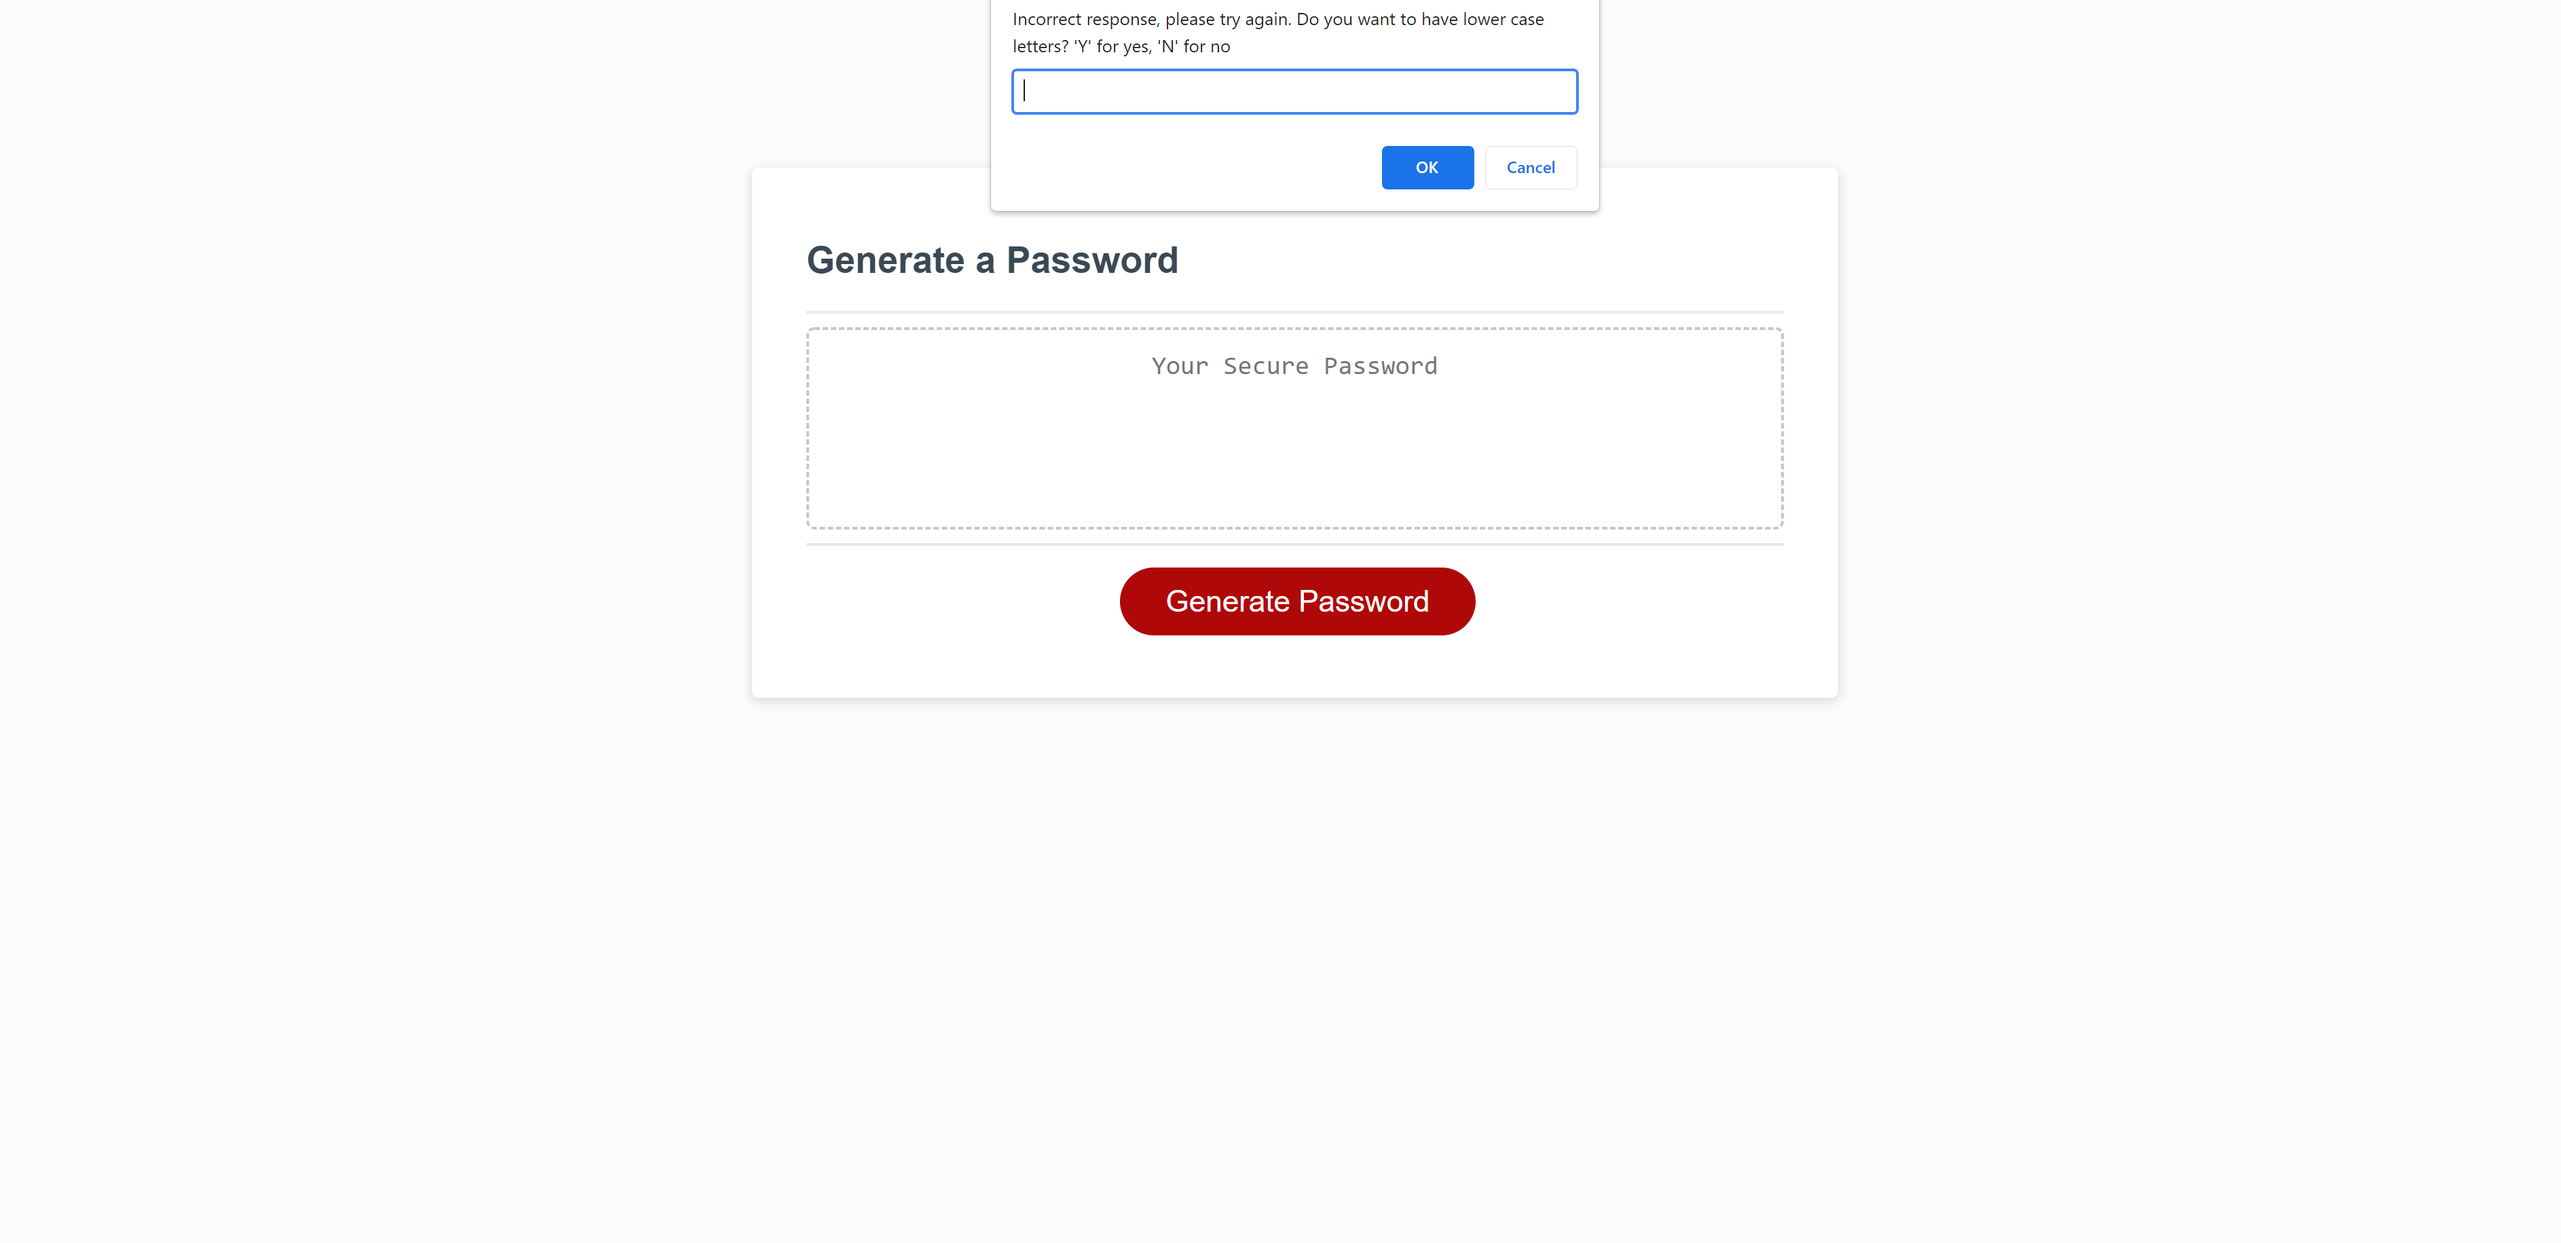
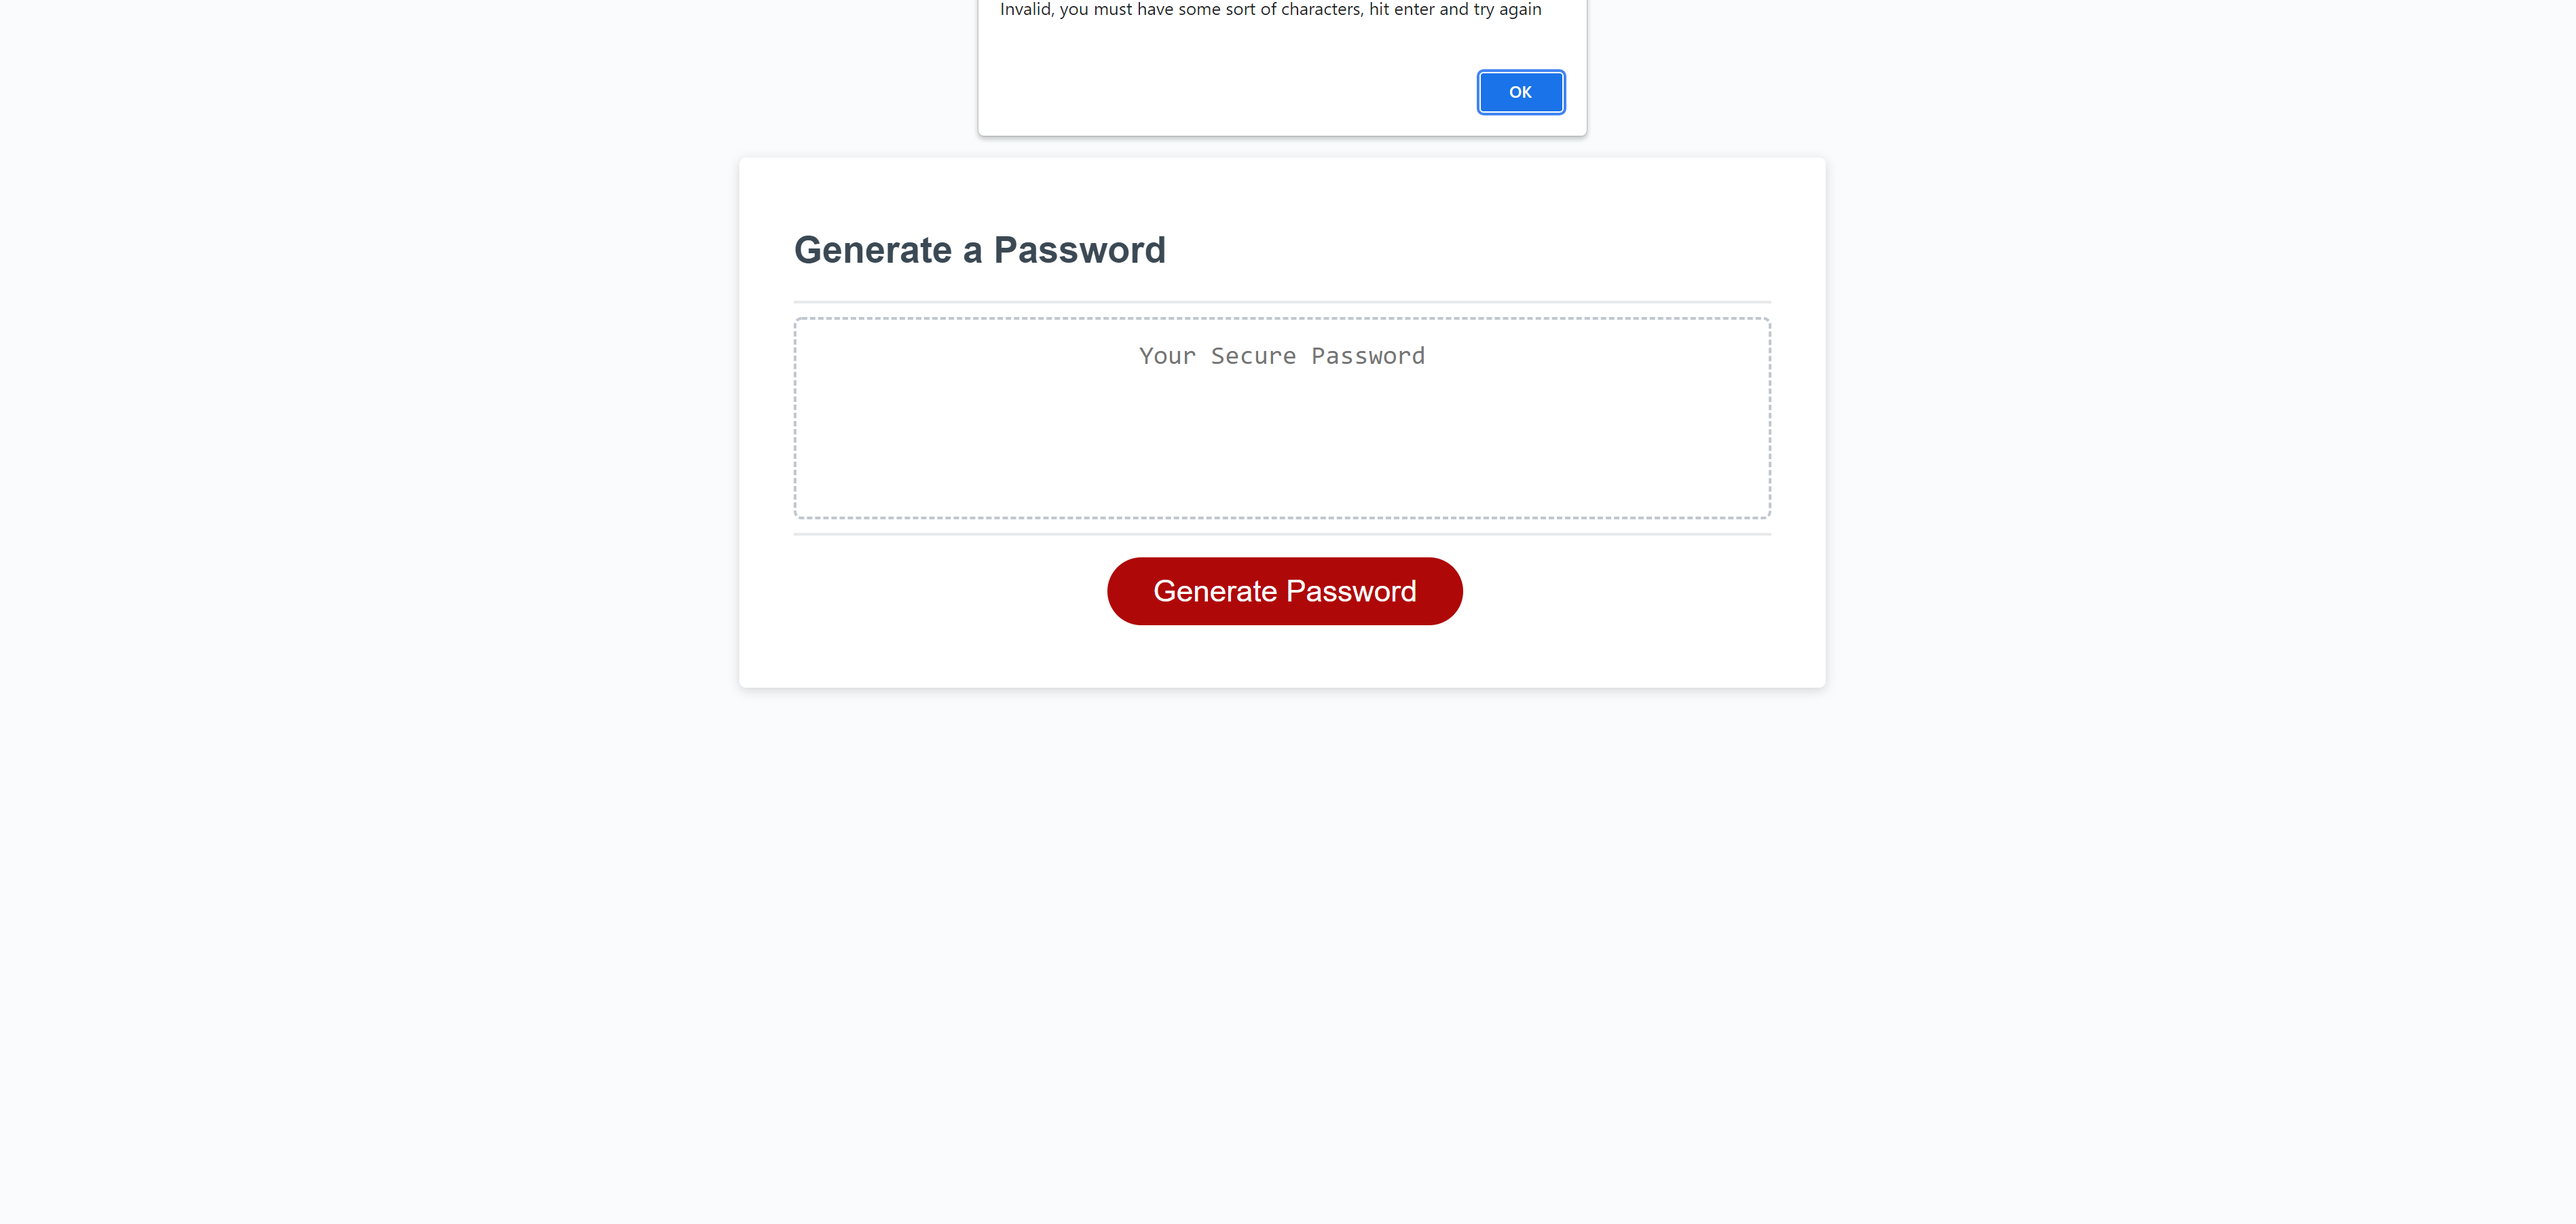
changed the readme to match with the confirm system

diff --git a/script.js b/script.js
@@ -68,7 +68,7 @@ function writePassword() {
   //this function checks to make sure that the user had some sort of character input
   function isValid() {
     while (passCriteria.lower === false && passCriteria.upper === false && passCriteria.numeric === false && passCriteria.special === false) {
-      prompt("Invalid, you must have some sort of characters, hit enter and try again")
+      alert("Invalid, you must have some sort of characters, hit enter and try again")
       inputLength()
       isLower()
       isUpper()

diff --git a/README.md b/README.md
@@ -7,7 +7,7 @@ HTML CSS and Javascript
 Usage:
 The user will need to click the generate button, at that point they will be prompted to answer a few question:
 They first need to specify the length of their desired password. It needs to be more than 7 and less than 129. If the user enters a number that is outside of that range, or enters in a letter, they will be prompted to retry.
-After that they will have four different prompts. Each prompt asks if they would like to use one of the following, lower case, upper case, numeric values, and special characters. The user has to select yes or no using "Y", "y", "N", or "n". If the user does not select one of those values they will be prompted to try again. If the user does not select any character types they will be prompted to start the process all over again. 
+After that they will have four different confirm buttons to answer. They will offer the user different character types. Those being lower case letters, upper case letters, numeric values and special characters. If the user does not select any character types they will be prompted to start the process all over again. 
 Once the user has selected their specifications a password will pop up in an alert and in the text area.
 
 
@@ -20,8 +20,8 @@ This image shows the website when you first load it
 After first clicking the button the user is prompted to enter in a number
 <img src="./images/example2.png" alt="an image showing the user being prompted to enter in a number">
 
-If the user enters in an invalid input they will be told that they need to try again. In this example they need to answer yes or no to if they want to use a certain character set
-<img src="./images/example3.png" alt="an image demonstrating what happens when the user enters in an incorrect input">
+If the user does not select any character types an alert will pop up letting the user know that they have to try again
+<img src="./images/example3.png" alt="an image demonstrating what happens if the user does not enter any character types">
 
 Once all of the specifications are set the password will pop up in an alert box
 <img src="./images/example4.png" alt="an image showing an alert box with the generated password">
